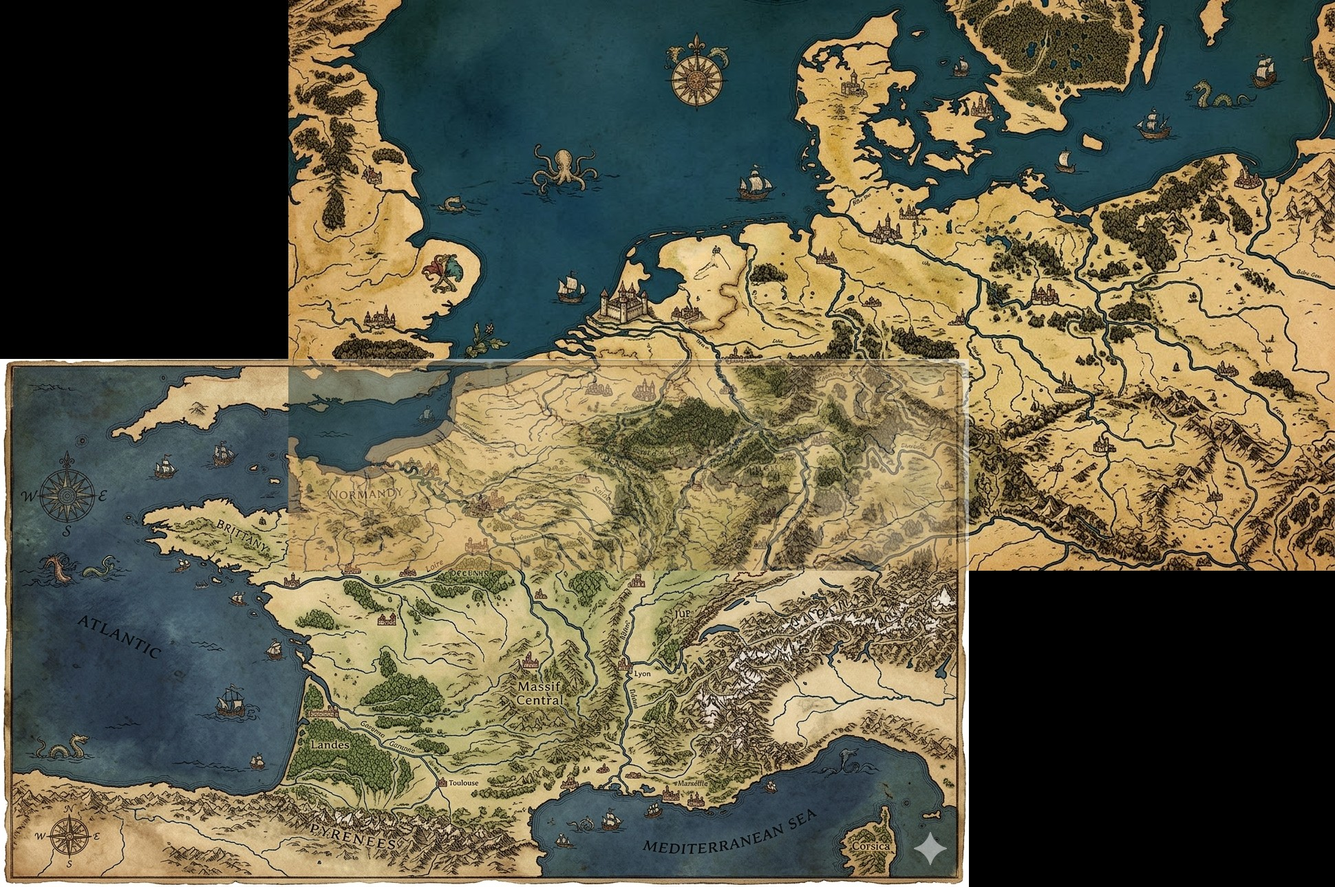
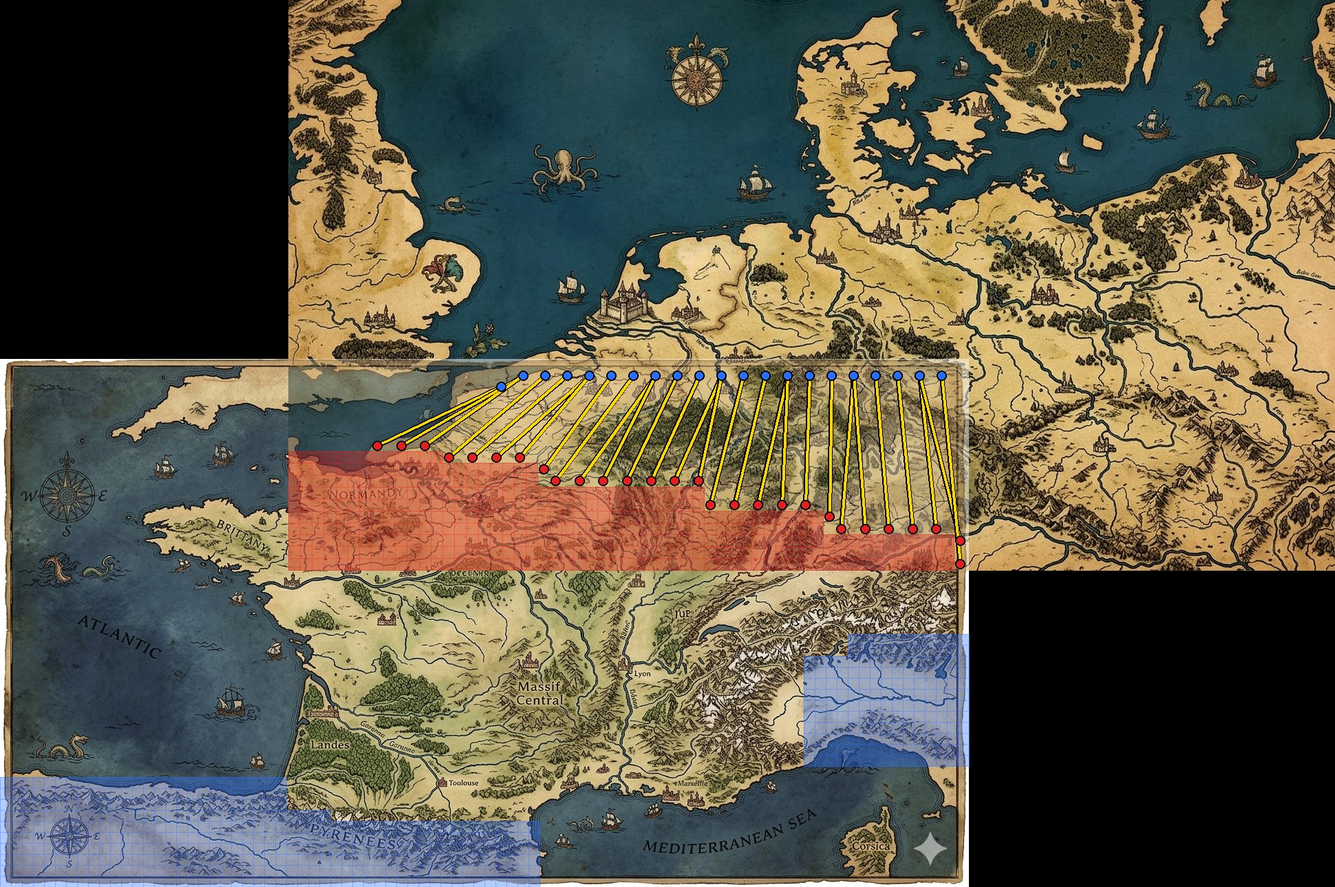
Superposition plaine / France : frontières et passages
Cases à 0 des deux grilles (bleu France, rouge plaine) et les 28 connexions
France ↔ plaine du dump, chaque paire de bouts reliée par un trait épais.

Claude-Session: https://claude.ai/code/session_01PcjkTRjkfDhKBFVyP9qdXG

Changed region(s): [[0.2165, 0.4031, 0.7423, 0.6512], [0.0, 0.8682, 0.433, 1.0], [0.5876, 0.7132, 0.7423, 0.8682]]

diff --git a/dev/superposer_cartes.py b/dev/superposer_cartes.py
@@ -7,16 +7,30 @@ des repères lus à la main sur les deux images (px de l'image d'origine, 1408×
 Sortie : la plaine à l'échelle et la France, en fondu à `--alpha` sur leur recouvrement (0.5
 par défaut : les deux tracés se lisent ; 1 : la France recouvre la plaine).
 
-	python dev/superposer_cartes.py [--alpha 0.5] [--sortie chemin.jpg]
+Par-dessus, lus dans le DUMP le plus récent (`jsons/telluris-dump-*.json`) :
+  · les cases à 0 de chaque grille (profil `pays` : ce sont les frontières, la mer est
+    fermée par `nav`) — bleu pour la France, rouge pour la plaine ;
+  · les passages France ↔ plaine : le bout France en bleu, le bout plaine en rouge, un trait
+    épais reliant les deux bouts d'une même connexion.
+
+	python dev/superposer_cartes.py [--alpha 0.5] [--sortie chemin.jpg] [--sans-frontieres]
 """
 
 import argparse
+import glob
+import json
 import os
 
-from PIL import Image
+from PIL import Image, ImageDraw
 
 RACINE = os.path.dirname(os.path.dirname(os.path.abspath(__file__)))
 CARTES = os.path.join(RACINE, "templates", "resources", "maps")
+FRANCE = "lieu:france"
+PLAINE = "lieu:plaine_europeenne"
+
+BLEU = (40, 110, 255)
+ROUGE = (230, 30, 30)
+TRAIT = (255, 215, 0)
 
 # Repères : nom → (point sur la plaine, point sur la France).
 REPERES = {
@@ -58,12 +72,64 @@ def superposer(alpha=0.5):
 	return toile, {"echelle": s, "plaine": (tx - x0, ty - y0), "france": (-x0, -y0)}
 
 
+def charger_dump():
+	"""{_id: doc} du dump committé le plus récent."""
+	chemin = sorted(glob.glob(os.path.join(RACINE, "jsons", "telluris-dump-*.json")))[-1]
+	with open(chemin, encoding="utf-8") as f:
+		return {d["_id"]: d for d in json.load(f)["docs"]}, os.path.basename(chemin)
+
+
+def vers_toile(lieu, info, taille_image):
+	"""Case (x, y) de la grille de `lieu` → (rect px de la case, centre px) sur la toile."""
+	cells = lieu["cells"]
+	cw, ch = taille_image[0] / len(cells[0]), taille_image[1] / len(cells)
+	k = info["echelle"] if lieu["_id"] == PLAINE else 1.0
+	ox, oy = info["plaine"] if lieu["_id"] == PLAINE else info["france"]
+
+	def f(x, y):
+		rect = (ox + x * cw * k, oy + y * ch * k, ox + (x + 1) * cw * k, oy + (y + 1) * ch * k)
+		return rect, ((rect[0] + rect[2]) / 2, (rect[1] + rect[3]) / 2)
+	return f
+
+
+def dessiner_frontieres(toile, info, docs):
+	"""Cases à 0 des deux grilles, puis passages France ↔ plaine reliés deux à deux."""
+	tailles = {i: Image.open(os.path.join(CARTES, docs[i]["image"])).size for i in (FRANCE, PLAINE)}
+	proj = {i: vers_toile(docs[i], info, tailles[i]) for i in (FRANCE, PLAINE)}
+	calque = Image.new("RGBA", toile.size, (0, 0, 0, 0))
+	d = ImageDraw.Draw(calque)
+	for lieu_id, couleur in ((FRANCE, BLEU), (PLAINE, ROUGE)):
+		for y, rang in enumerate(docs[lieu_id]["cells"]):
+			for x, v in enumerate(rang):
+				if v == 0:
+					d.rectangle(proj[lieu_id](x, y)[0], fill=couleur + (90,), outline=couleur + (150,))
+	toile.alpha_composite(calque)
+
+	liens = [c for c in docs.values() if c.get("type") == "connection"
+		and sorted(n["lieu"] for n in c.get("nodes", [])) == sorted((FRANCE, PLAINE))]
+	d = ImageDraw.Draw(toile)
+	bouts = []
+	for c in liens:
+		pos = {n["lieu"]: proj[n["lieu"]](*n["pos"])[1] for n in c["nodes"]}
+		d.line([pos[FRANCE], pos[PLAINE]], fill=(0, 0, 0, 255), width=7)
+		d.line([pos[FRANCE], pos[PLAINE]], fill=TRAIT + (255,), width=4)
+		bouts += [(pos[FRANCE], BLEU), (pos[PLAINE], ROUGE)]
+	for (cx, cy), couleur in bouts:
+		d.ellipse((cx - 7, cy - 7, cx + 7, cy + 7), fill=couleur + (255,), outline=(0, 0, 0, 255), width=2)
+	return len(liens)
+
+
 if __name__ == "__main__":
 	ap = argparse.ArgumentParser()
 	ap.add_argument("--alpha", type=float, default=0.5)
 	ap.add_argument("--sortie", default=os.path.join(RACINE, "dev", "cartes", "superposition_plaine_france.jpg"))
+	ap.add_argument("--sans-frontieres", action="store_true")
 	args = ap.parse_args()
 	toile, info = superposer(args.alpha)
+	if not args.sans_frontieres:
+		docs, dump = charger_dump()
+		n = dessiner_frontieres(toile, info, docs)
+		print(f"{dump} : {n} connexions France ↔ plaine")
 	os.makedirs(os.path.dirname(args.sortie), exist_ok=True)
 	toile.convert("RGB").save(args.sortie, quality=90)
 	print(f"{args.sortie} {toile.size} échelle plaine ×{info['echelle']:.3f}, "
